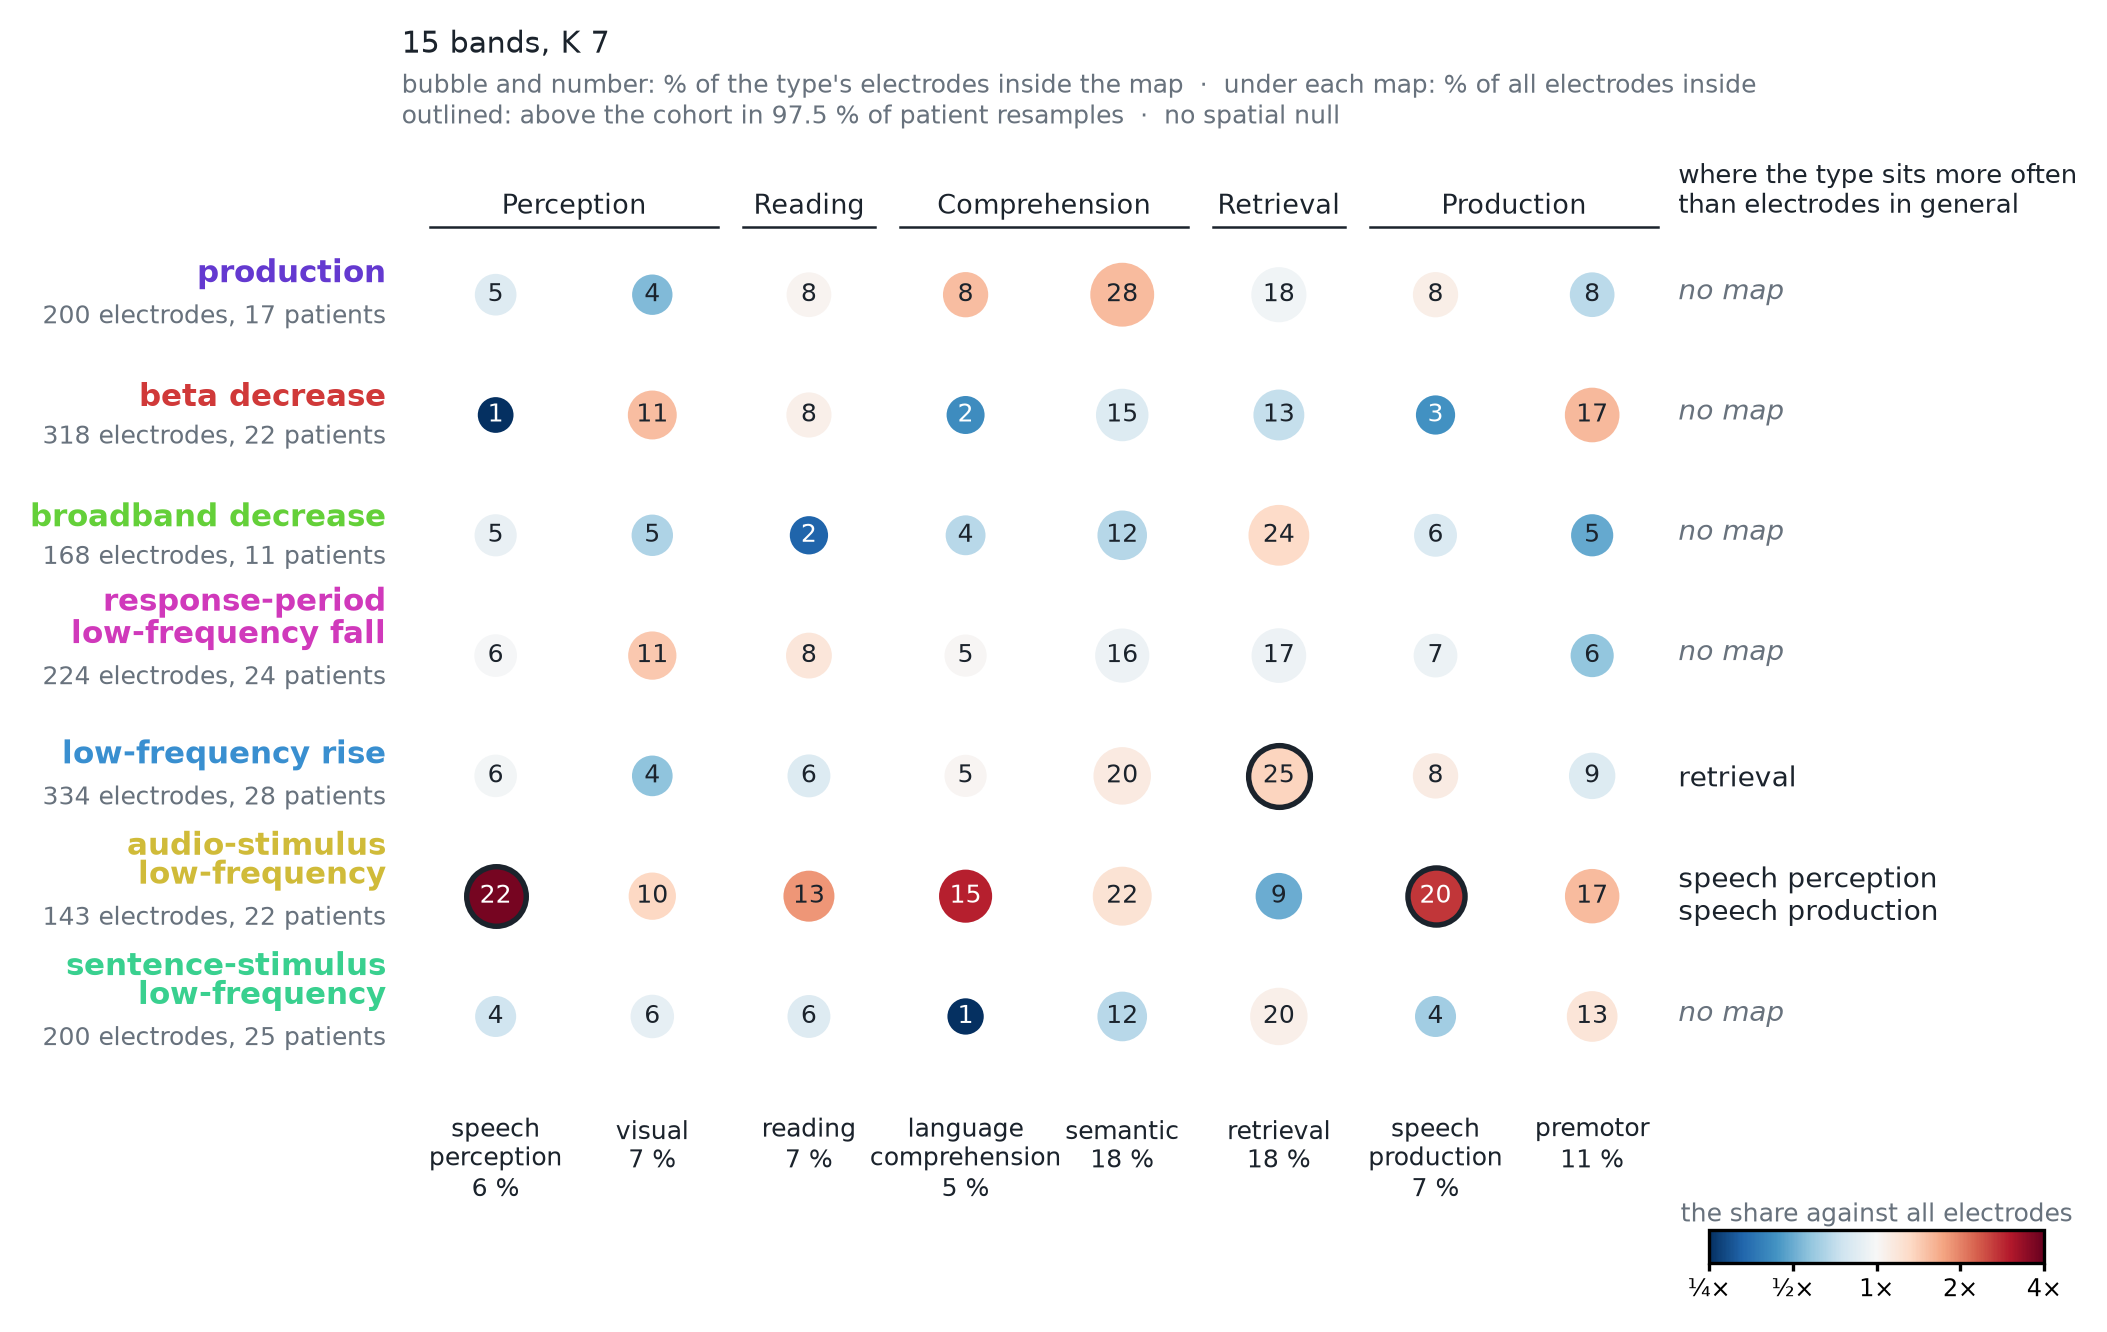
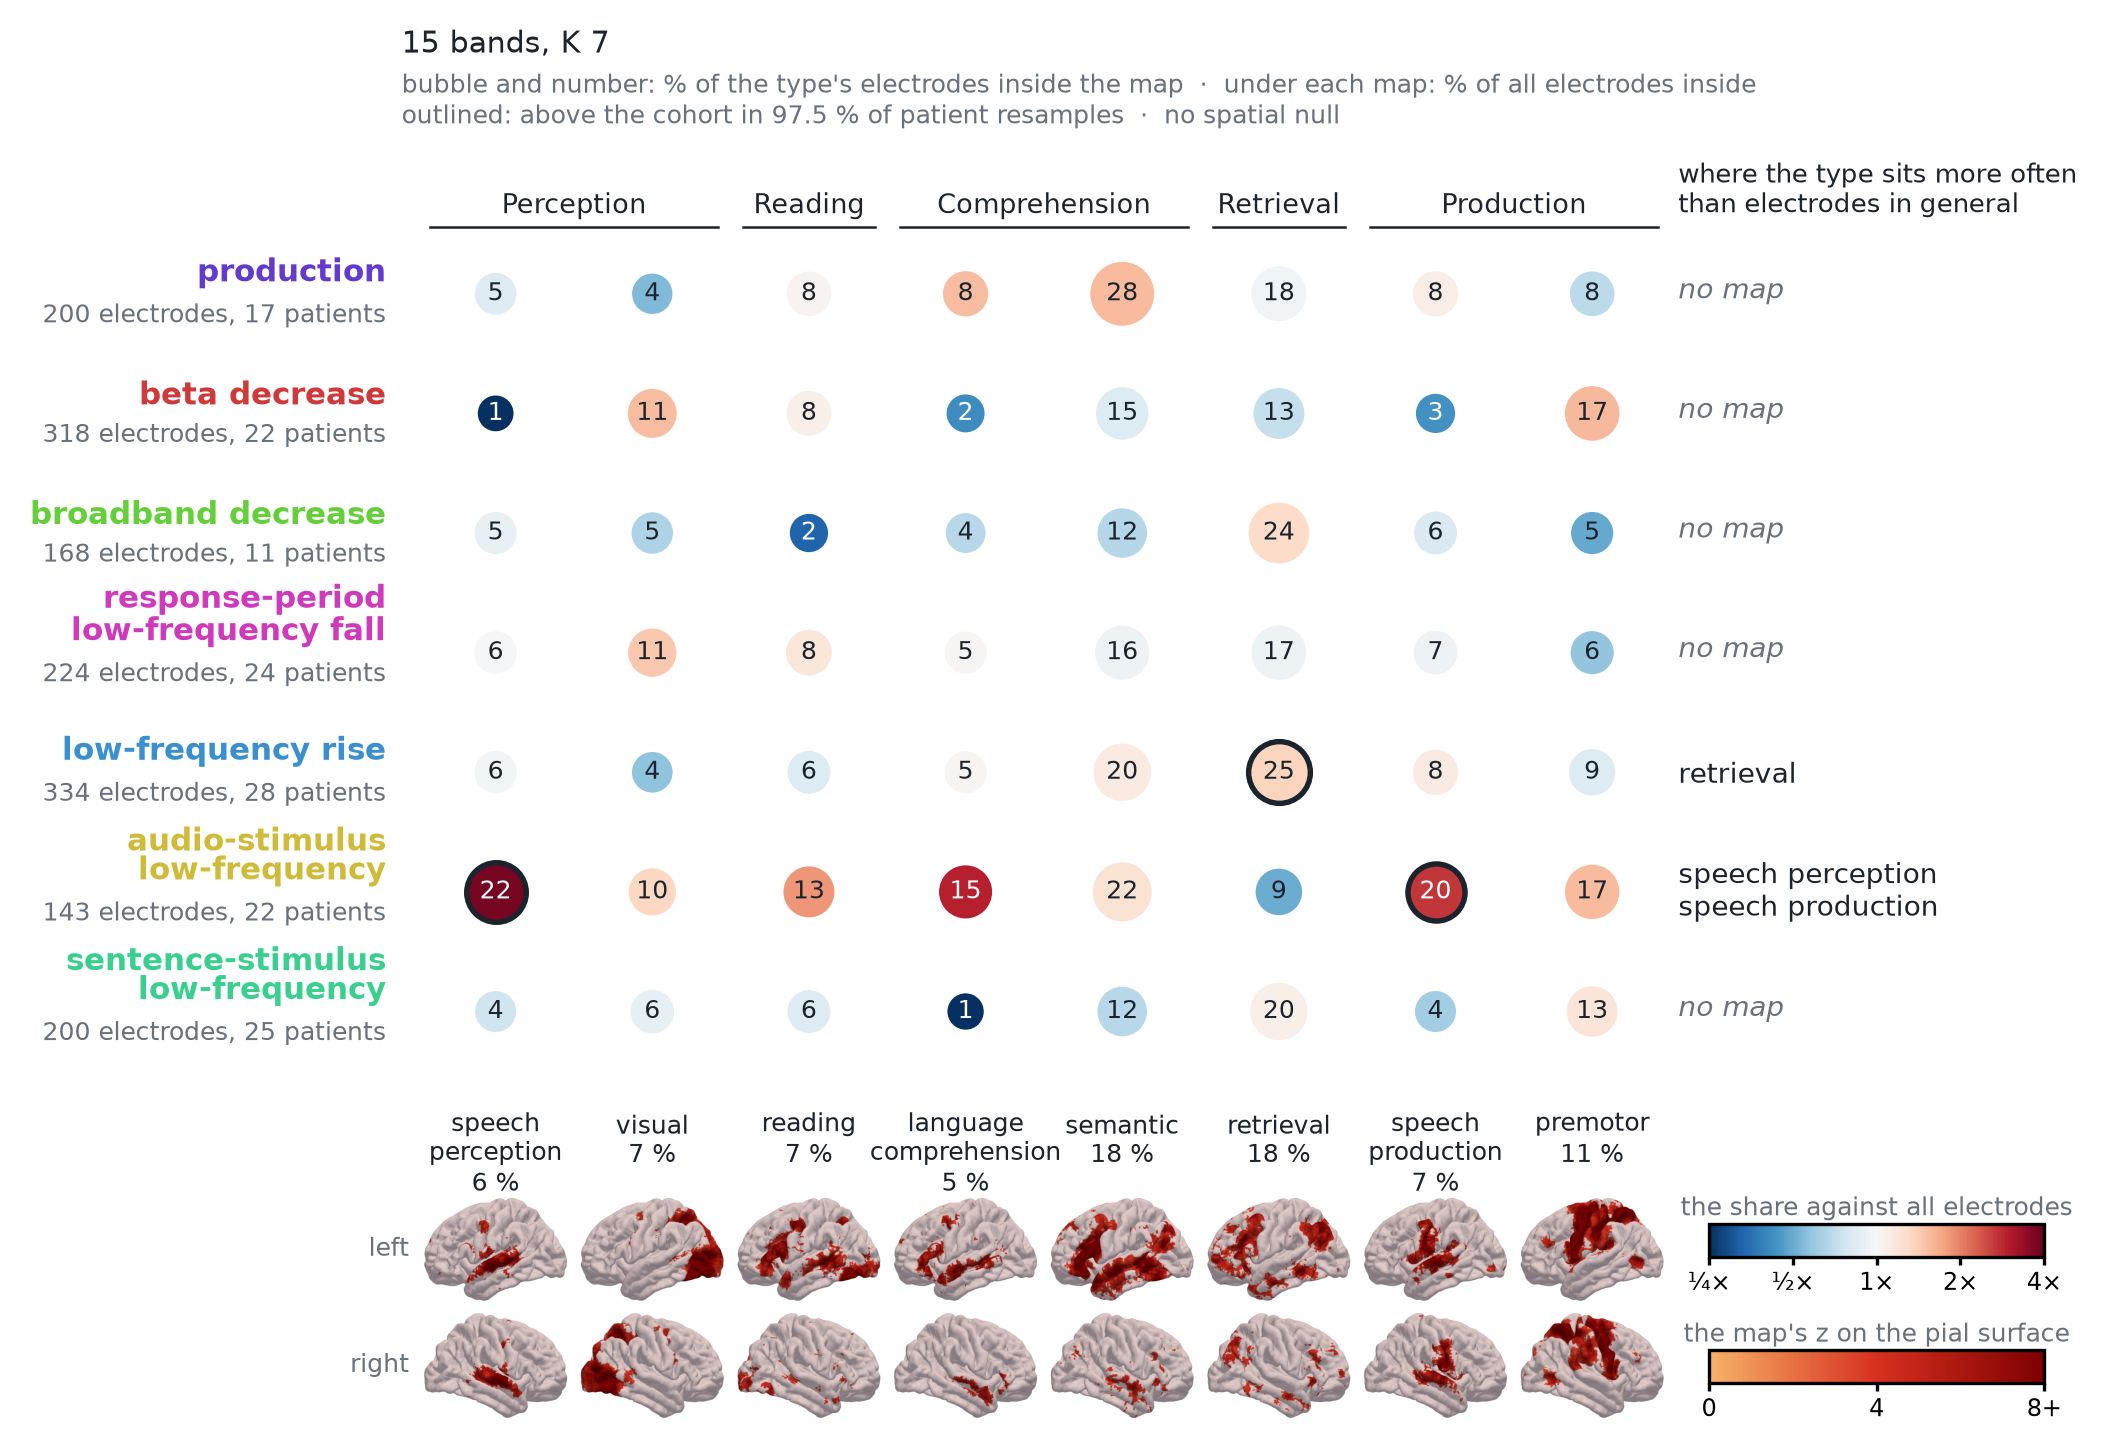
Poster NeuroSynth panel: each map on the fsaverage pial surface under its name, left and right (ns_vertex_z samples the map at the vertices with lf_pool's MNI305-to-152 affine, maximum within 3 mm along the normal; ns_brain_image renders the opaque surface with the paper's camera), 16 brain tiles re

diff --git a/02_FBM_Clustering/make_poster_assets.py b/02_FBM_Clustering/make_poster_assets.py
@@ -18,7 +18,8 @@ Writes outputs/clustering/paper_figures/poster/assets/:
   neurosynth_15band.png / neurosynth_15zband.png
                          the eight-map NeuroSynth label matrix of member_measures/10_neurosynth_labels.py
                          (out_k7/neurosynth_labels/labels.csv, nothing recomputed) at print size, for
-                         15 bands and for the z-scored companion
+                         15 bands and for the z-scored companion; under each map name the map on the
+                         fsaverage pial surface (ns_brain_<term>_<side>.png, reused with --no-render)
   separation_row.png     the two held-out confusions (one patient out, patient halves) and the
                          silhouette of every electrode per type against the Gaussian cloud;
                          separation_violin_loading.png is the loading alternative
@@ -416,6 +417,74 @@ def wrap_name(name, width=18):
     return NL.join(lines + [cur])
 
 
+NS_VOL = ROOT.parent / "04_FBM_Pooling" / "neurosynth"    # the association-test z maps (MNI152, 2 mm) the pooling samples
+MNI305_TO_152 = np.array([[0.9975, -0.0073, 0.0176, -0.0429], [0.0146, 1.0009, -0.0024, 1.5496],
+                          [-0.0130, -0.0093, 0.9971, 1.1840], [0.0, 0.0, 0.0, 1.0]])   # lf_pool's, as member_measures/4_neurosynth.py applies it
+NS_ZMAX = 8.0
+NS_CMAP = matplotlib.colors.LinearSegmentedColormap.from_list("ns", ["#f7b267", "#d7301f", "#7f0000"])
+_NS_Z: dict = {}
+
+
+def ns_vertex_z(term):
+    """The map's z at every pial vertex of both hemispheres: the vertex (MNI305) goes to MNI152 with
+    lf_pool's affine and reads the nearest voxel, as the contacts do in member_measures/4_neurosynth.py.
+    The thresholded map lives in the grey matter under the pial surface, so the maximum over 0, 1.5 and
+    3 mm along the vertex normal, both ways, is kept."""
+    if term in _NS_Z:
+        return _NS_Z[term]
+    import nibabel as nb
+    folder = next(p for p in (NS_VOL / term.replace(" ", "_"), NS_VOL / term) if p.is_dir())
+    f = sorted(folder.glob("*association-test_z_FDR*.nii.gz"))[0]
+    img = nb.load(str(f)); vol = np.asarray(img.dataobj, float); inv = np.linalg.inv(img.affine)
+    out = {}
+    for side in ("L", "R"):
+        m = P2.hemi_mesh(side)
+        v = np.asarray(m.points, float); nrm = np.asarray(m.point_normals, float)
+        best = np.zeros(len(v))
+        for off in (0.0, 1.5, -1.5, 3.0, -3.0):
+            xyz = v + off * nrm
+            mni = (np.c_[xyz, np.ones(len(xyz))] @ MNI305_TO_152.T)[:, :3]
+            ijk = np.round((np.c_[mni, np.ones(len(mni))] @ inv.T)[:, :3]).astype(int)
+            ok = (ijk >= 0).all(1) & (ijk < np.array(vol.shape[:3])).all(1)
+            z = np.zeros(len(v)); z[ok] = vol[ijk[ok, 0], ijk[ok, 1], ijk[ok, 2]]
+            best = np.maximum(best, z)
+        out[side] = best
+    _NS_Z[term] = out
+    print(f"    {term}: {int((out['L'] > 0).sum())} left and {int((out['R'] > 0).sum())} right vertices inside")
+    return out
+
+
+def ns_brain_image(term, side):
+    """One hemisphere's pial surface from the outside, opaque, with the map's z > 0 painted on it
+    (NS_CMAP from 0 to NS_ZMAX); the paper's camera and lighting. Saved as assets/ns_brain_<term>_<side>.png
+    and reused with --no-render."""
+    p = OUT / f"ns_brain_{term.replace(' ', '_')}_{side}.png"
+    if p.exists() and NO_RENDER:
+        return np.asarray(Image.open(p).convert("RGBA"))
+    z = ns_vertex_z(term)[side]
+    m = P2.hemi_mesh(side).copy()
+    rgb = np.tile(np.array(matplotlib.colors.to_rgb(P2.RC.BRAIN_COLOR)) * 255, (len(z), 1))
+    ins = z > 0
+    rgb[ins] = NS_CMAP(np.clip(z[ins] / NS_ZMAX, 0, 1))[:, :3] * 255
+    m["rgb"] = rgb.astype(np.uint8)
+    pl = P2.pv.Plotter(off_screen=True, window_size=P2.RENDER_PX)
+    pl.add_mesh(m, scalars="rgb", rgb=True, smooth_shading=True, specular=P2.RC.BRAIN_SPECULAR,
+                specular_power=P2.RC.BRAIN_SPECULAR_POWER, ambient=P2.RC.BRAIN_AMBIENT, diffuse=P2.RC.BRAIN_DIFFUSE)
+    b = m.bounds
+    cx, cy, cz = (b[0] + b[1]) / 2, (b[2] + b[3]) / 2, (b[4] + b[5]) / 2
+    dist = 2.4 * max(b[1] - b[0], b[3] - b[2], b[5] - b[4])
+    pl.camera_position = ((cx - dist if side == "L" else cx + dist, cy, cz), (cx, cy, cz), (0, 0, 1))
+    pl.enable_parallel_projection()
+    W, H = P2.RENDER_PX
+    vis = 2.0 * pl.camera.parallel_scale
+    fit = min(vis / (1.06 * (b[5] - b[4])), vis * (W / H) / (1.06 * (b[3] - b[2])))
+    pl.camera.zoom(min(1.30, fit))
+    img = P2._crop_alpha(np.asarray(pl.screenshot(return_img=True, transparent_background=True)))
+    pl.close()
+    Image.fromarray(img).save(p)
+    return img
+
+
 def neurosynth(d):
     """The eight-map label matrix of member_measures/10_neurosynth_labels.py redrawn at print size,
     for 15 bands and for the z-scored companion: bubble and number = % of the type's electrodes
@@ -423,7 +492,8 @@ def neurosynth(d):
     outlined = the share is above the cohort's in 97.5 % of patient resamples. Everything is read
     from out_k7/neurosynth_labels/labels.csv, nothing is recomputed. The z-scored clusters sit in
     the row of the published type they are matched to (out_k7/matching.csv) and carry its name and
-    colour; a cluster that is more than half one patient is greyed with a cross."""
+    colour; a cluster that is more than half one patient is greyed with a cross. Under each map name the
+    map itself on the fsaverage pial surface, from the left and from the right (ns_brain_image)."""
     from matplotlib.colors import TwoSlopeNorm
     lab = pd.read_csv(MM / "neurosynth_labels" / "labels.csv")
     match = pd.read_csv(MM / "matching.csv")
@@ -443,8 +513,9 @@ def neurosynth(d):
                 if not m.empty:
                     c = int(m.cluster.iloc[0]); rows.append((c, d["names"].get(j, f"c{j}"), d["col"][j], f"z{c} · "))
         n_rows = len(rows)
-        fig, ax = plt.subplots(figsize=(7.4, 1.4 + 0.46 * n_rows), dpi=DPI)
-        fig.subplots_adjust(left=0.20, right=0.955, top=0.86, bottom=0.17)
+        fig_h = 1.4 + 0.46 * n_rows + 1.15                 # 1.15 in for the brains under the names
+        fig, ax = plt.subplots(figsize=(7.4, fig_h), dpi=DPI)
+        fig.subplots_adjust(left=0.20, right=0.955, top=1 - 0.65 / fig_h, bottom=1.95 / fig_h)
         print(f"  neurosynth {tag}:")
         for r_, (c, name, col, pre) in enumerate(rows):
             y = n_rows - 1 - r_
@@ -487,6 +558,23 @@ def neurosynth(d):
             s_.set_visible(False)
         ax.tick_params(length=0)
         ax.text(len(names) - 0.45, n_rows - 0.38, "where the type sits more often" + NL + "than electrodes in general", ha="left", va="bottom", fontsize=6.2, color=INK, linespacing=1.15)
+        # the maps themselves under the names: the pial surface from the left and from the right, z > 0 painted on it
+        aw, ah = 7.4 * (0.955 - 0.20), fig_h - 0.65 - 1.95
+        x0_, x1_ = ax.get_xlim(); u = 1.0 / (x1_ - x0_)
+        y_top = -0.34 / ah
+        for x, mname in enumerate(names):
+            for k_, side in enumerate(("L", "R")):
+                im = ns_brain_image(mname, side)
+                w_f = 0.92 * u; h_f = w_f * aw / ah * im.shape[0] / im.shape[1]
+                y_f = y_top - (k_ + 1) * h_f - k_ * 0.03 / ah
+                ia = ax.inset_axes([(x - x0_) * u - w_f / 2, y_f, w_f, h_f])
+                ia.imshow(im); ia.axis("off")
+                if x == 0:
+                    ia.text(-0.1, 0.5, "left" if side == "L" else "right", transform=ia.transAxes, ha="right", va="center", fontsize=6.0, color=MUTED)
+        cax2 = ax.inset_axes([0.78, y_top - 0.62 / ah, 0.20, 0.035])
+        cb2 = fig.colorbar(plt.cm.ScalarMappable(norm=matplotlib.colors.Normalize(0, NS_ZMAX), cmap=NS_CMAP), cax=cax2, orientation="horizontal", ticks=[0, 4, 8])
+        cb2.ax.set_xticklabels(["0", "4", "8+"], fontsize=5.8); cb2.ax.tick_params(length=2, pad=1.5)
+        cax2.set_title("the map's z on the pial surface", fontsize=6.0, color=MUTED, pad=2)
         cax = ax.inset_axes([0.78, -0.17, 0.20, 0.035])
         cb = fig.colorbar(plt.cm.ScalarMappable(norm=norm, cmap=cmap), cax=cax, orientation="horizontal", ticks=[-2, -1, 0, 1, 2])
         cb.ax.set_xticklabels(["¼×", "½×", "1×", "2×", "4×"], fontsize=5.8); cb.ax.tick_params(length=2, pad=1.5)

diff --git a/02_FBM_Clustering/outputs/clustering/paper_figures/poster/poster_round3_prompt.md b/02_FBM_Clustering/outputs/clustering/paper_figures/poster/poster_round3_prompt.md
@@ -27,5 +27,5 @@ Caption under the table: "Diagonal share: the fraction of electrodes on the matc
 - assets\figure1_column.png (2220 x 3060 px)
 - assets\agreement_bars.png (bars only)
 - assets\stability_row.png (consensus matrix and the K panel)
-- assets\neurosynth_15band.png (2107 x 1332 px, the eight-map NeuroSynth label matrix, 15 bands)
-- assets\neurosynth_15zband.png (2356 x 1332 px, the same for the z-scored companion)
+- assets\neurosynth_15band.png (2107 x 1452 px, the eight-map NeuroSynth label matrix, 15 bands, each map on the pial surface under its name)
+- assets\neurosynth_15zband.png (2356 x 1452 px, the same for the z-scored companion)
